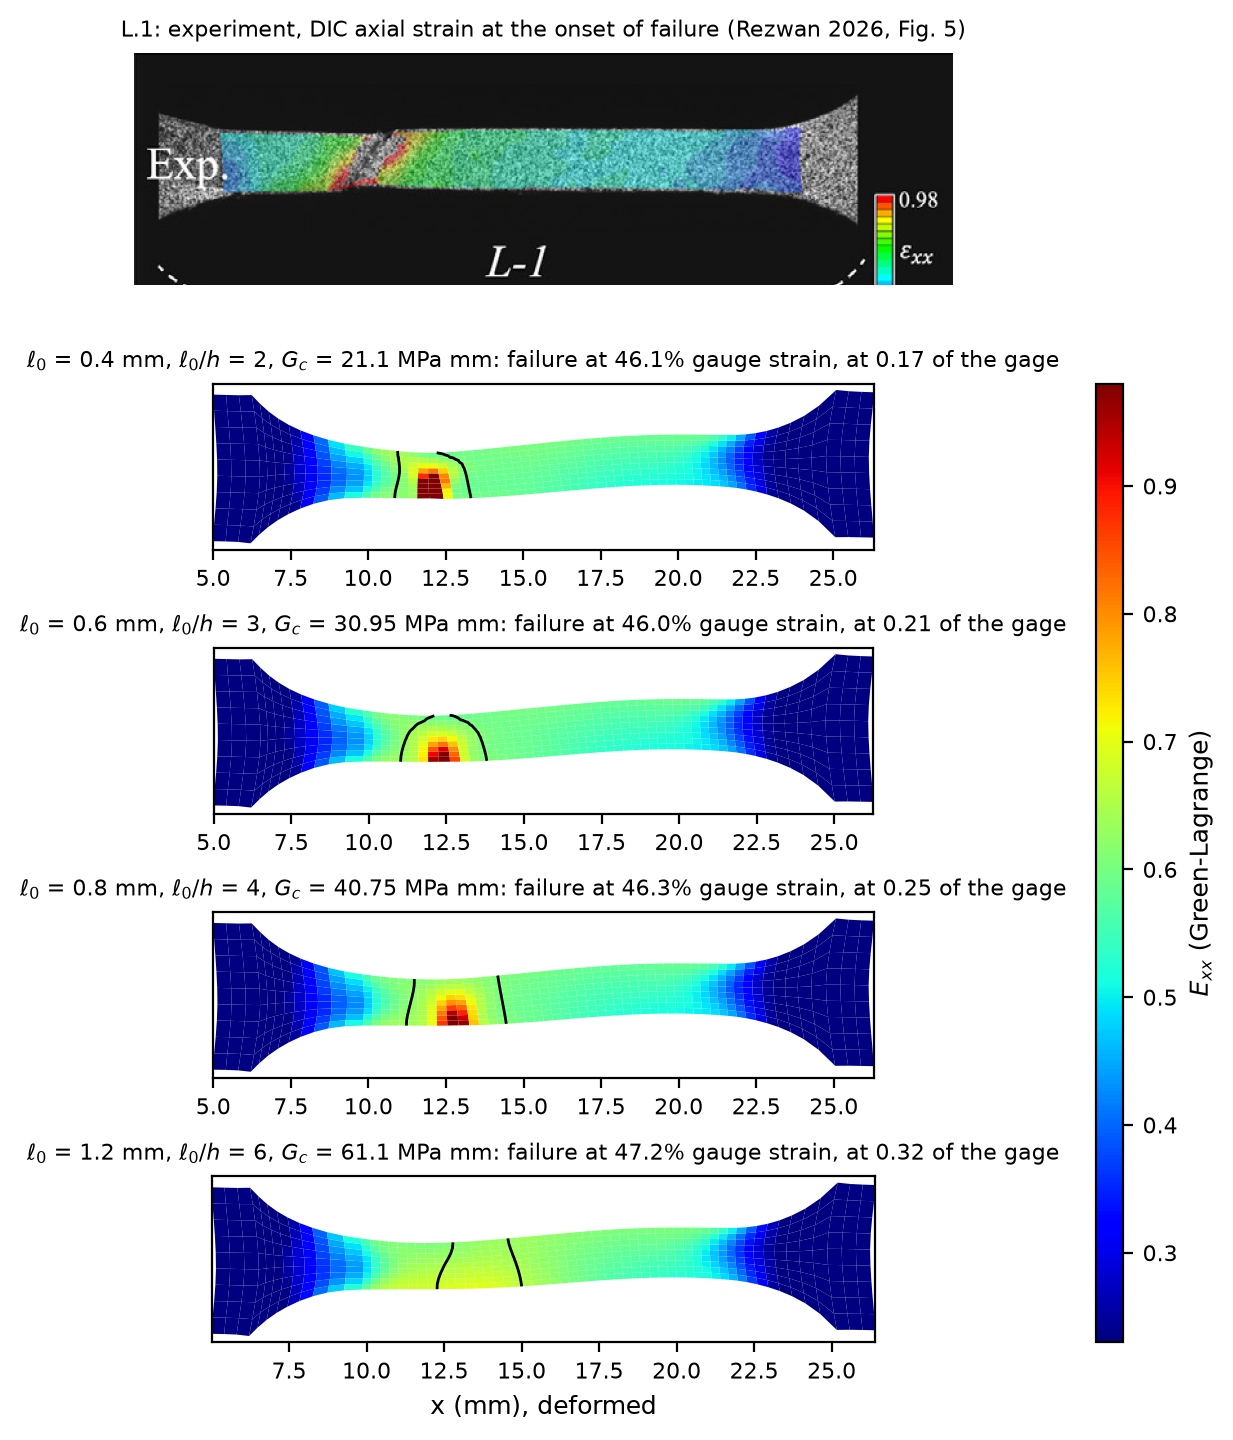
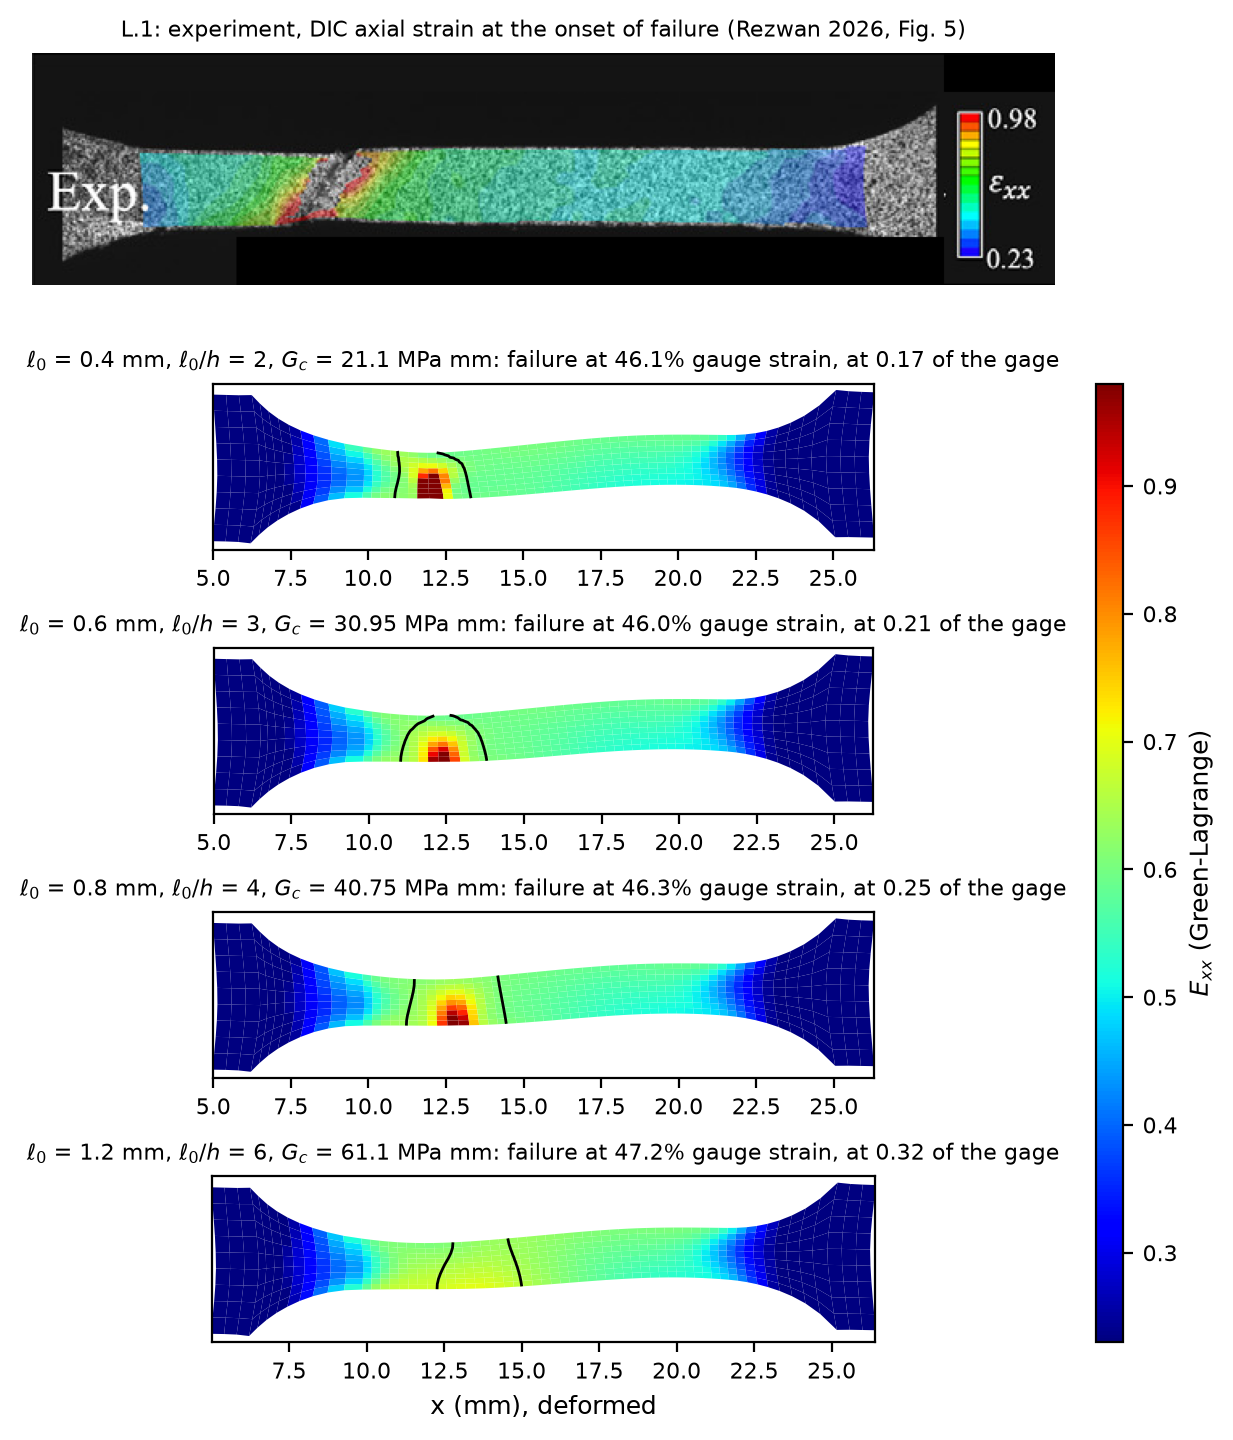
Ni Fig. 5 experiment-only panels: strip and color bar detected per panel, the bar block moved beside the strip with its full scale, specimen label cleared; all shape figures redrawn

Changed region(s): [[0.0, 0.0312, 0.8629, 0.2188]]

diff --git a/scripts/ni_fig5_exp_crops.py b/scripts/ni_fig5_exp_crops.py
@@ -1,29 +1,72 @@
 #!/usr/bin/env python3
 """Experiment-only crops of the Fig. 5 panels (data/digitized/ni_fig5_panels/<spec>.png).
 
-Each panel stacks the DIC experiment ("Exp.") above the paper's own simulation ("Sim.").
-The author (2026-10-23) wants only the experiment next to this study's fields, so the
-top ``FRACTION`` of every panel (the Exp. strip, the specimen label and the color scale,
-which sits between the two strips) is written as ``<spec>_exp.png``.
+Each panel stacks the DIC experiment ("Exp.") above the paper's own simulation ("Sim."),
+with one e_xx color bar between the two strips at the right. The author (2026-10-23)
+wants only the experiment next to this study's fields, so for every panel the Exp. strip
+is kept (its rows found from the colored pixels), the specimen label below it is cleared,
+and the color-bar block (the bar with its labels, found by its saturated columns) is moved
+up beside the strip, so that the scale stays complete. Written as ``<spec>_exp.png``.
 
-Usage: ni_fig5_exp_crops.py [FRACTION]   (default 0.62)
+Usage: ni_fig5_exp_crops.py
 """
 import sys
 from pathlib import Path
 
+import numpy as np
 from PIL import Image
 
 ROOT = Path(__file__).resolve().parent.parent / "data/digitized/ni_fig5_panels"
+SAT = 120  # a pixel with max-min RGB above this is colored (the DIC field, the color bar)
+
+
+def _saturation(a: np.ndarray) -> np.ndarray:
+    return a.max(axis=2).astype(int) - a.min(axis=2).astype(int)
+
+
+def layout(a: np.ndarray) -> dict:
+    """Rows of the Exp. strip and the box of the color-bar block, per panel.
+
+    The strip is the saturated rows of the central columns in the upper half; the bar is
+    the rightmost narrow run of saturated columns in the rows below the strip (the crack's
+    red band would otherwise pass for it). The block takes the bar with its labels (14 px
+    above, 18 px below, text to the right edge).
+    """
+    sat = _saturation(a)
+    h, w = sat.shape
+    mid = sat[: h // 2, w // 8 : w - 80]
+    srows = np.where((mid > 80).sum(axis=1) > 20)[0]
+    s0, s1 = int(srows.min()), int(srows.max())
+    below = sat[s1 + 5 :, w // 2 :]
+    cols = np.where((below > SAT).sum(axis=0) > 40)[0] + w // 2
+    bx1 = int(cols.max())
+    bx0 = bx1
+    while bx0 - 1 in set(cols.tolist()):
+        bx0 -= 1
+    rows = np.where((sat[s1 + 5 :, bx0 : bx1 + 1] > SAT).sum(axis=1) > 3)[0] + s1 + 5
+    by0, by1 = int(rows.min()), int(rows.max())
+    return {"strip": (s0, s1), "bar": (bx0 - 10, by0 - 14, w, by1 + 18)}
 
 
 def main(argv):
-    frac = float(argv[1]) if len(argv) > 1 else 0.62
     for p in sorted(ROOT.glob("*.png")):
         if p.stem.endswith("_exp"):
             continue
-        im = Image.open(p)
-        im.crop((0, 0, im.width, int(round(frac * im.height)))).save(p.with_name(p.stem + "_exp.png"))
-        print("wrote", p.with_name(p.stem + "_exp.png").name)
+        im = Image.open(p).convert("RGB")
+        a = np.asarray(im)
+        L = layout(a)
+        s0, s1 = L["strip"]
+        x0, y0, x1, y1 = L["bar"]
+        block = im.crop((x0, y0, x1, y1))
+        center = (s0 + s1) // 2
+        top = max(s1 + 14, center + block.height // 2 + 2)
+        out = im.crop((0, 0, im.width, top))
+        # below the strip only the grips' speckle may stay: clear the label zone and the bar column
+        out.paste((0, 0, 0), (im.width // 5, s1 + 8, x0, top))
+        out.paste((0, 0, 0), (x0, 0, im.width, top))
+        out.paste(block, (x0, center - block.height // 2))
+        out.save(p.with_name(p.stem + "_exp.png"))
+        print("wrote", p.with_name(p.stem + "_exp.png").name, "strip rows", L["strip"], "bar", L["bar"], "height", top)
     return 0
 
 

diff --git a/data/digitized/ni_fig5_panels/README.md b/data/digitized/ni_fig5_panels/README.md
@@ -8,6 +8,6 @@ rows 9 (5-295), 10 (310-600), H (615-905), L (920-1210), P (1232-1522); columns 
 (5-640), x.3 (640-1268), x.4 (1268-1895). Made 2026-10-20 for the Part III fracture-shape
 comparison (docs/12 §6). Tier: published figure, not digitized values; no scale bar.
 
-`<spec>_exp.png` (2026-10-23): the top 62% of each panel, the experiment's DIC strip with the
-specimen label and the color scale, without the paper's simulation (author: the comparison
+`<spec>_exp.png` (2026-10-23): the experiment's DIC strip (its rows found from the colored pixels; the specimen label below it cleared) with the color-bar block
+(bar and labels, found by its saturated columns below the strip) moved up beside it, without the paper's simulation (author: the comparison
 figures show only the experiment next to this study's fields). `scripts/ni_fig5_exp_crops.py`.
